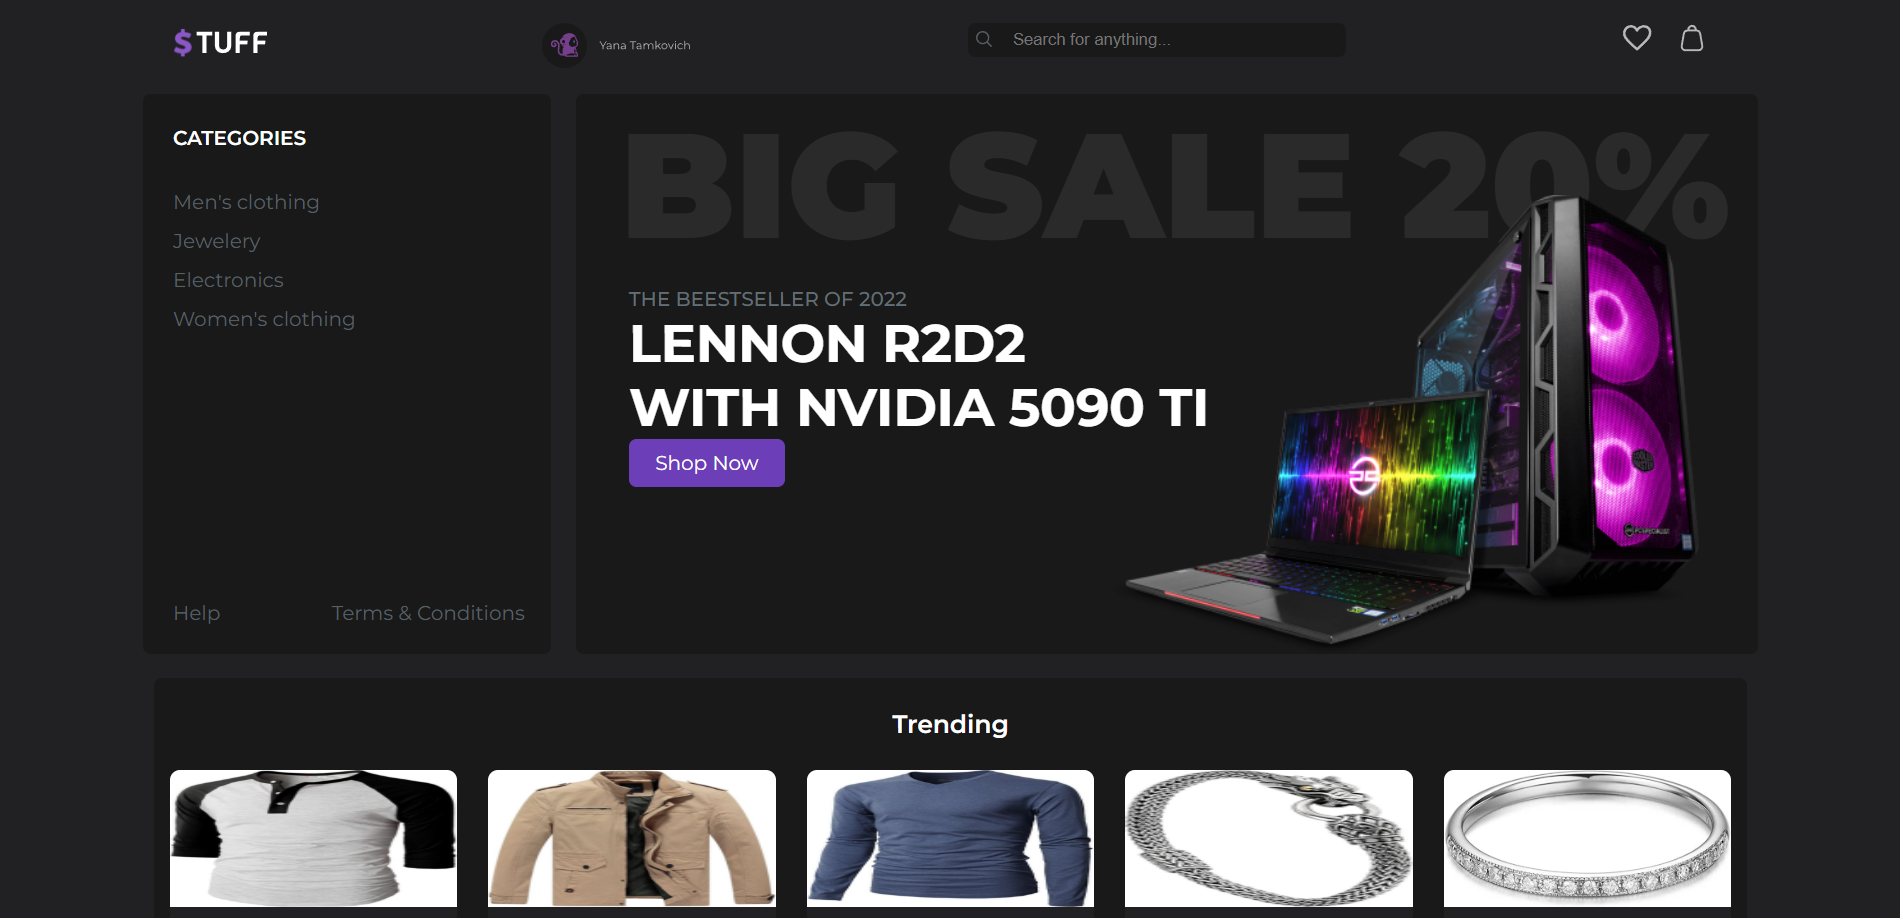
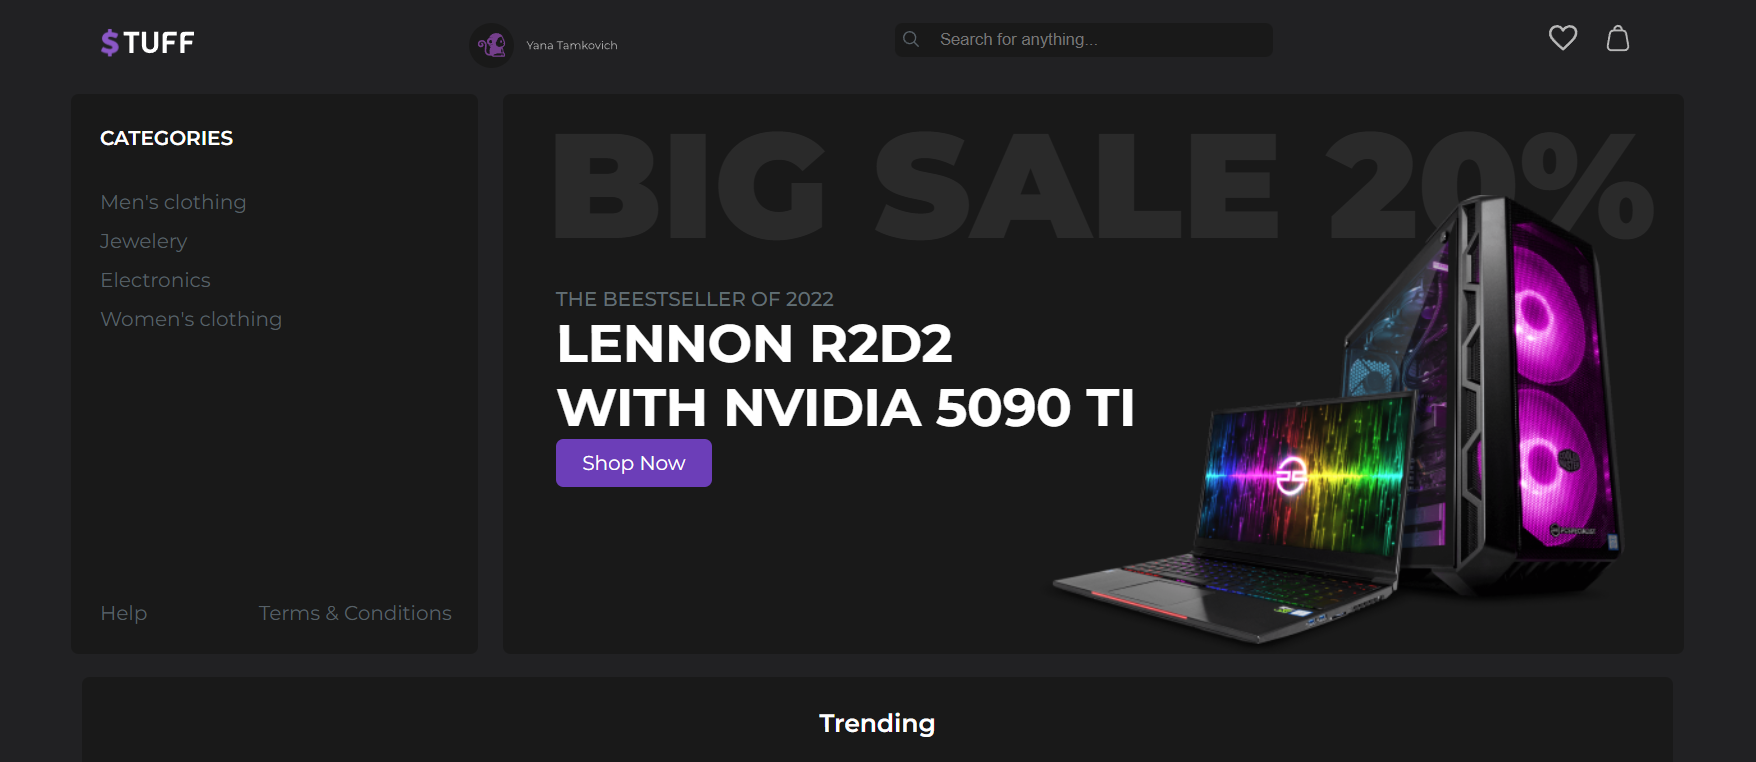
fix

diff --git a/src/Port.jsx b/src/Port.jsx
@@ -1,6 +1,8 @@
 import React, { useRef, useState } from 'react';
 import './App.scss';
-import img from "./assets/img.jpg"
+import staff from "./assets/staff.png"
+import womezing from "./assets/womezing.png"
+import euphoria from "./assets/euphoria.png"
 import { FaLinkedin } from "react-icons/fa";
 import { IoLogoGithub } from "react-icons/io5";
 import { RiTelegram2Fill } from "react-icons/ri";
@@ -123,28 +125,28 @@ const Port = () => {
                     собственное тематическое исследование.</p>
                 <div className="projects-grid">
                     <div className="project-card">
-                        <img src={img} alt="Проект 1" className="project-image" />
+                        <img src={womezing} alt="Проект 1" className="project-image" />
                         <div className="text">
-                            <h3>Проект 1</h3>
-                            <p>Dopefolio — это успешный проект с открытым исходным кодом, который я создал и который был представлен на некоторых крупнейших технических сайтах, таких как CSS-Tricks, Hostinger и т. д., и используется тысячами разработчиков по всему миру.</p>
+                            <h3>Womezing</h3>
+                            <p>Womezing — это учебный проект, созданный в рамках курсов по веб-разработке. Сайт посвящён женской одежде и демонстрирует базовые возможности интернет-магазина</p>
                             {/* <a href="https://github.com" target="_blank" rel="noopener noreferrer"> */}
                             {/* <button className='btn-f'>  Посмотреть на GitHub</button></a> */}
                         </div>
                     </div>
                     <div className="project-card">
-                        <img src={img} alt="Проект 1" className="project-image" />
+                        <img src={euphoria} alt="Проект 1" className="project-image" />
                         <div className="text">
-                            <h3>Проект 1</h3>
-                            <p>Dopefolio — это успешный проект с открытым исходным кодом, который я создал и который был представлен на некоторых крупнейших технических сайтах, таких как CSS-Tricks, Hostinger и т. д., и используется тысячами разработчиков по всему миру.</p>
+                            <h3>Euphoria</h3>
+                            <p>Euphoria — это современный интернет-магазин модной одежды, созданный в рамках учебного проекта. Сайт предлагает стильные и актуальные коллекции для тех, кто ценит комфорт, качество и индивидуальность</p>
                             {/* <a href="https://github.com" target="_blank" rel="noopener noreferrer"> */}
                             {/* <button className='btn-f'>  Посмотреть на GitHub</button></a>*/}
                         </div>
                     </div>
                     <div className="project-card">
-                        <img src={img} alt="Проект 1" className="project-image" />
+                        <img src={staff} alt="Проект 1" className="project-image" />
                         <div className="text">
-                            <h3>Проект 1</h3>
-                            <p>Dopefolio — это успешный проект с открытым исходным кодом, который я создал и который был представлен на некоторых крупнейших технических сайтах, таких как CSS-Tricks, Hostinger и т. д., и используется тысячами разработчиков по всему миру.</p>
+                            <h3>Staff</h3>
+                            <p>Staff — учебный проект в формате цифрового маркетплейса, где сходятся последние технологические новинки и актуальные fashion-тенденции. Этот концепт-стор создан для демонстрации современных подходов к e-commerce, объединяя премиальную электронику и стильные луки в едином цифровом пространстве</p>
                             {/* <a href="https://github.com" target="_blank" rel="noopener noreferrer">
                                 <button className='btn-f'>  Посмотреть на GitHub</button></a>    */}
                         </div>

diff --git a/index.html b/index.html
@@ -2,7 +2,7 @@
 <html lang="en">
   <head>
     <meta charset="UTF-8" />
-    <link rel="icon" type="image/svg+xml" href="/" />
+    <link rel="icon" type="image/svg+xml" href="/public/logo.jpg" />
     <meta name="viewport" content="width=device-width, initial-scale=1.0" />
     <title>Tabaev Islam</title>
   </head>
